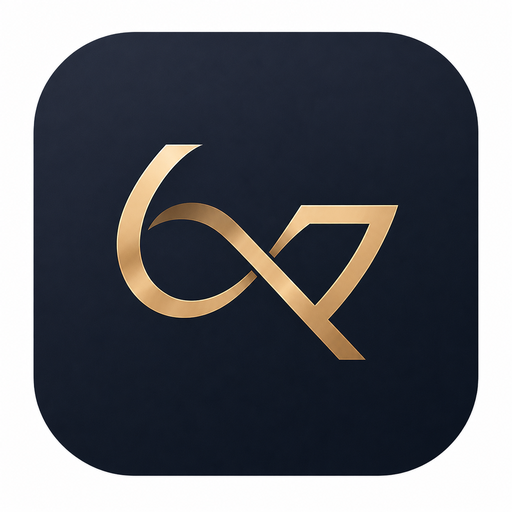
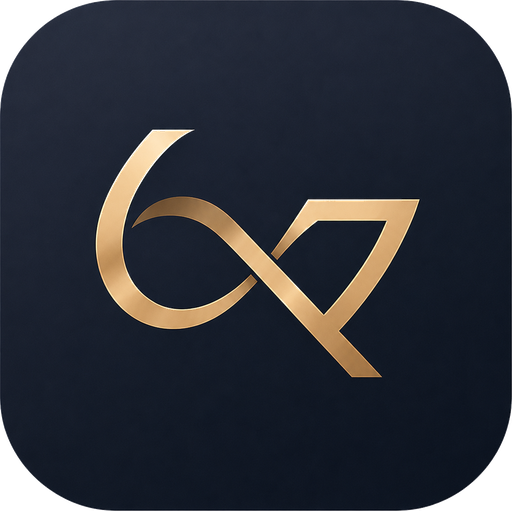
Add files via upload

diff --git a/style.css b/style.css
@@ -791,3 +791,30 @@ html[data-theme="passion"] .homeCodeLabel {
     min-height: 62px;
   }
 }
+
+
+/* FINAL TRANSPARENT PNG BRANDING */
+.logoFull,
+.miniBrand,
+.accessWordmark,
+.splashWordmark,
+.brandWordmark,
+.accessAppIcon,
+.splashIcon,
+.featureMatrix article img,
+.btnIcon,
+.titleIcon,
+.smallIcon,
+.personIcon,
+.anonymousCounters img,
+.countdownHeader img {
+  object-fit: contain;
+}
+
+.accessWordmark {
+  max-height: 130px;
+}
+
+.miniBrand {
+  max-height: 160px;
+}

diff --git a/index.html b/index.html
@@ -9,10 +9,10 @@
   <meta name="apple-mobile-web-app-capable" content="yes" />
   <meta name="apple-mobile-web-app-title" content="sixseven" />
   <meta name="mobile-web-app-capable" content="yes" />
-  <link rel="stylesheet" href="./style.css?v=png-final-1" />
+  <link rel="stylesheet" href="./style.css?v=transparent-final-1" />
   <link rel="manifest" href="./manifest.webmanifest" />
   <link rel="apple-touch-icon" href="./assets/icon-app-180.png" />
-  <link rel="icon" href="./assets/monograma-sixseven.png" type="image/png" />
+  <link rel="icon" href="./assets/icon-app-192.png" type="image/png" />
   <script src="./firebase-config.js"></script>
 </head>
 <body class="theme-gold">
@@ -300,6 +300,6 @@
     </section>
   </main>
 
-  <script type="module" src="./app.js?v=png-final-1"></script>
+  <script type="module" src="./app.js?v=transparent-final-1"></script>
 </body>
 </html>

diff --git a/404.html b/404.html
@@ -4,9 +4,9 @@
   <meta charset="utf-8" />
   <meta name="viewport" content="width=device-width, initial-scale=1" />
   <title>sixseven · no encontrado</title>
-  <link rel="stylesheet" href="./style.css?v=png-final-1" />
+  <link rel="stylesheet" href="./style.css?v=transparent-final-1" />
   <link rel="apple-touch-icon" href="./assets/icon-app-180.png" />
-  <link rel="icon" href="./assets/icon-app.png" type="image/png" />
+  <link rel="icon" href="./assets/icon-app-192.png" type="image/png" />
 </head>
 <body class="theme-gold">
   <main class="shell">

diff --git a/VALIDACION_FINAL_TRANSPARENT_PNG.md b/VALIDACION_FINAL_TRANSPARENT_PNG.md
@@ -1,0 +1,19 @@
+# Validación final · sixseven con PNG transparentes
+
+## Integración realizada
+
+- Sustituidos los logos por PNG con fondo transparente real.
+- Enlazados los PNG en splash, acceso, evento, favicon, manifest y 404.
+- Conservados e integrados los 18 iconos funcionales PNG.
+- Eliminadas referencias SVG.
+- Revisadas referencias locales.
+- Validado JavaScript.
+
+## Assets principales
+
+- assets/logo-principal-claro.png
+- assets/logo-principal-oscuro.png
+- assets/icon-app.png
+- assets/monograma-sixseven.png
+- assets/wordmark-sixseven.png
+- assets/logo-vertical-compacto.png

diff --git a/README.md b/README.md
@@ -33,3 +33,8 @@ Consulta:
 ## Versión final con iconos PNG
 
 Esta versión usa exclusivamente PNG para el logo de la app, logos corporativos e iconos funcionales enlazados desde `assets/`.
+
+
+## Versión final con PNG transparentes
+
+Usa PNG con fondo transparente para la imagen corporativa y mantiene los iconos funcionales enlazados desde `assets/`.